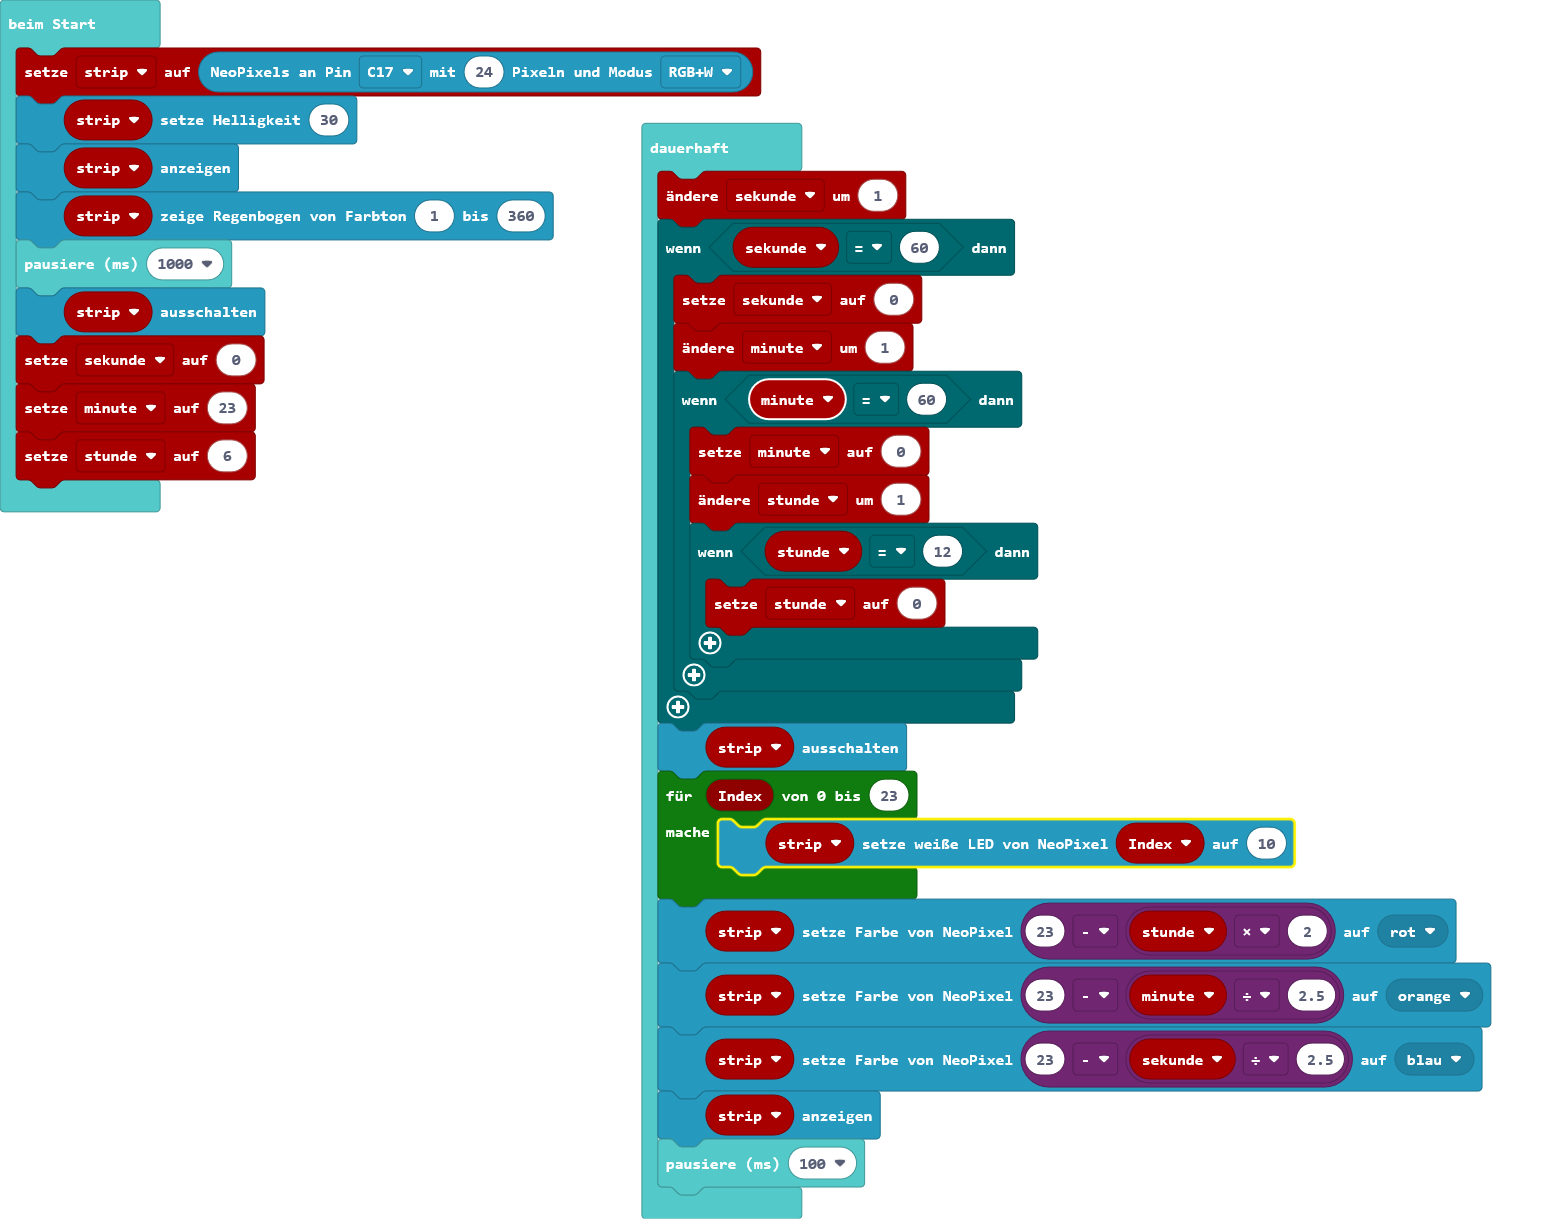
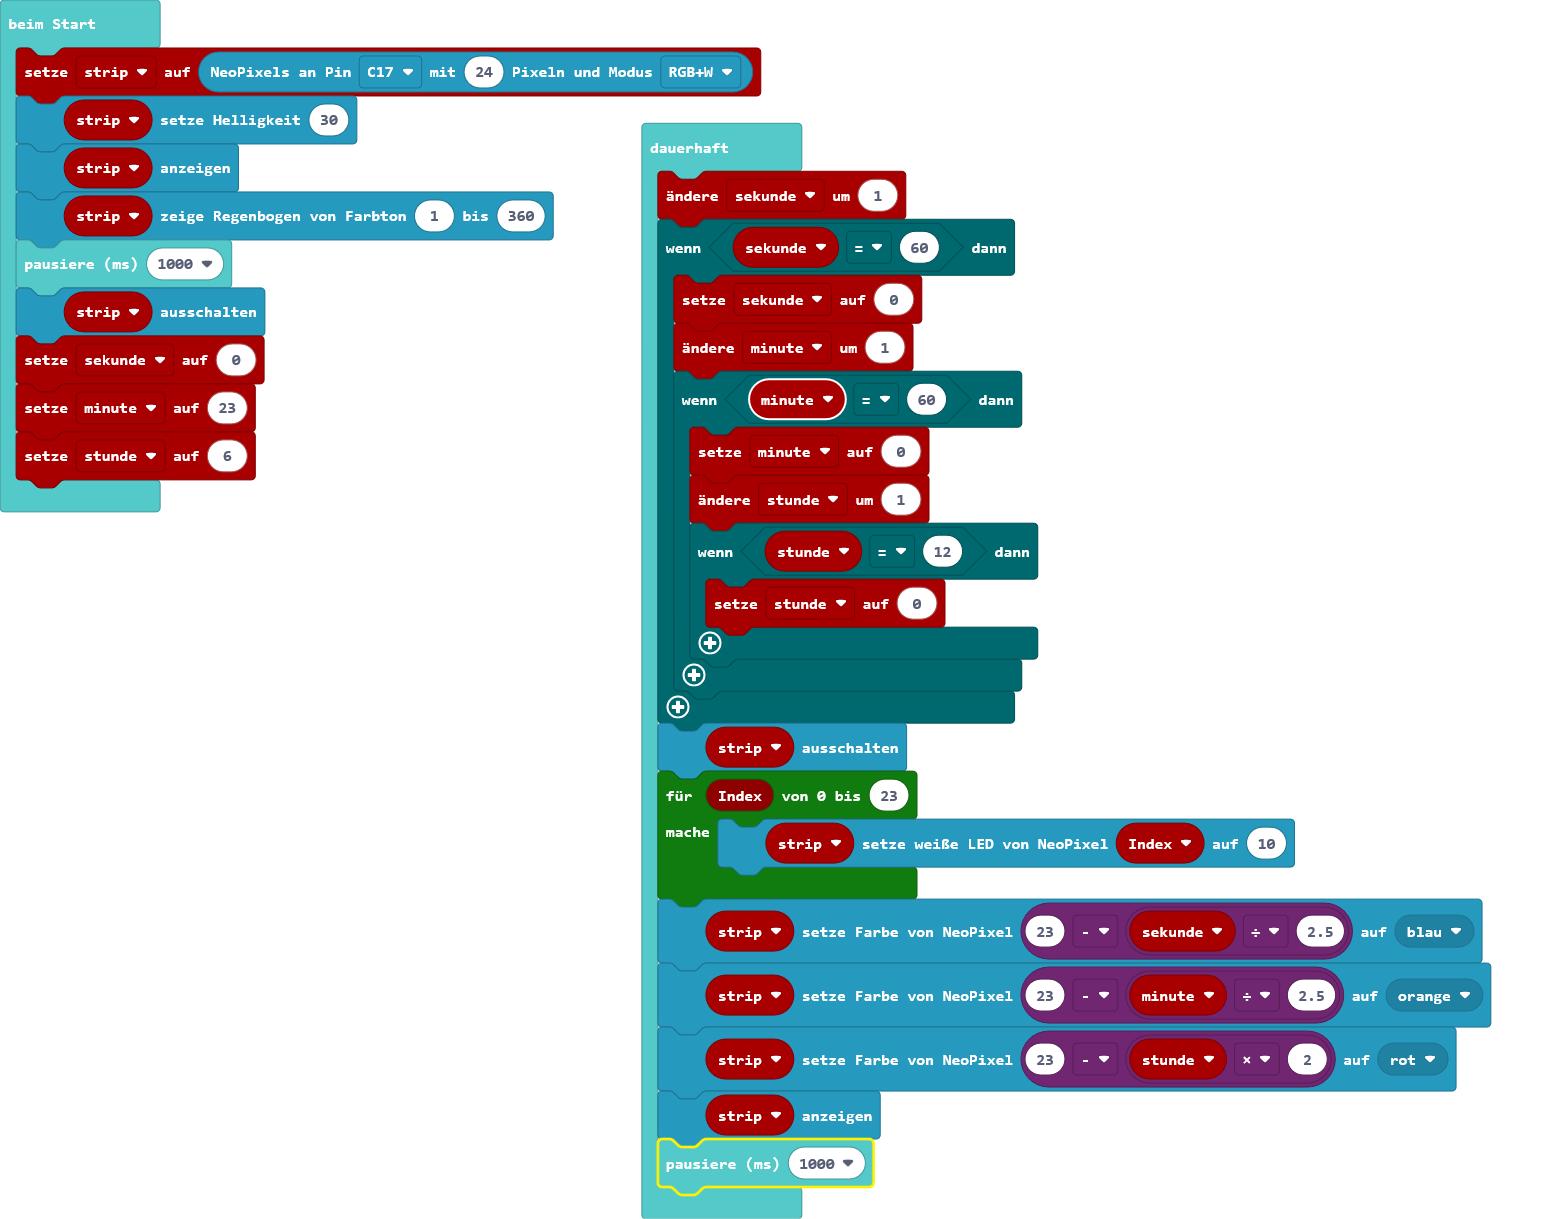
Aktualisiere main.blocks, main.ts

diff --git a/main.ts b/main.ts
@@ -24,9 +24,9 @@ basic.forever(function () {
     for (let Index = 0; Index <= 23; Index++) {
         strip.setPixelWhiteLED(Index, 10)
     }
-    strip.setPixelColor(23 - stunde * 2, neopixel.colors(NeoPixelColors.Red))
-    strip.setPixelColor(23 - minute / 2.5, neopixel.colors(NeoPixelColors.Orange))
     strip.setPixelColor(23 - sekunde / 2.5, neopixel.colors(NeoPixelColors.Blue))
+    strip.setPixelColor(23 - minute / 2.5, neopixel.colors(NeoPixelColors.Orange))
+    strip.setPixelColor(23 - stunde * 2, neopixel.colors(NeoPixelColors.Red))
     strip.show()
-    basic.pause(100)
+    basic.pause(1000)
 })
